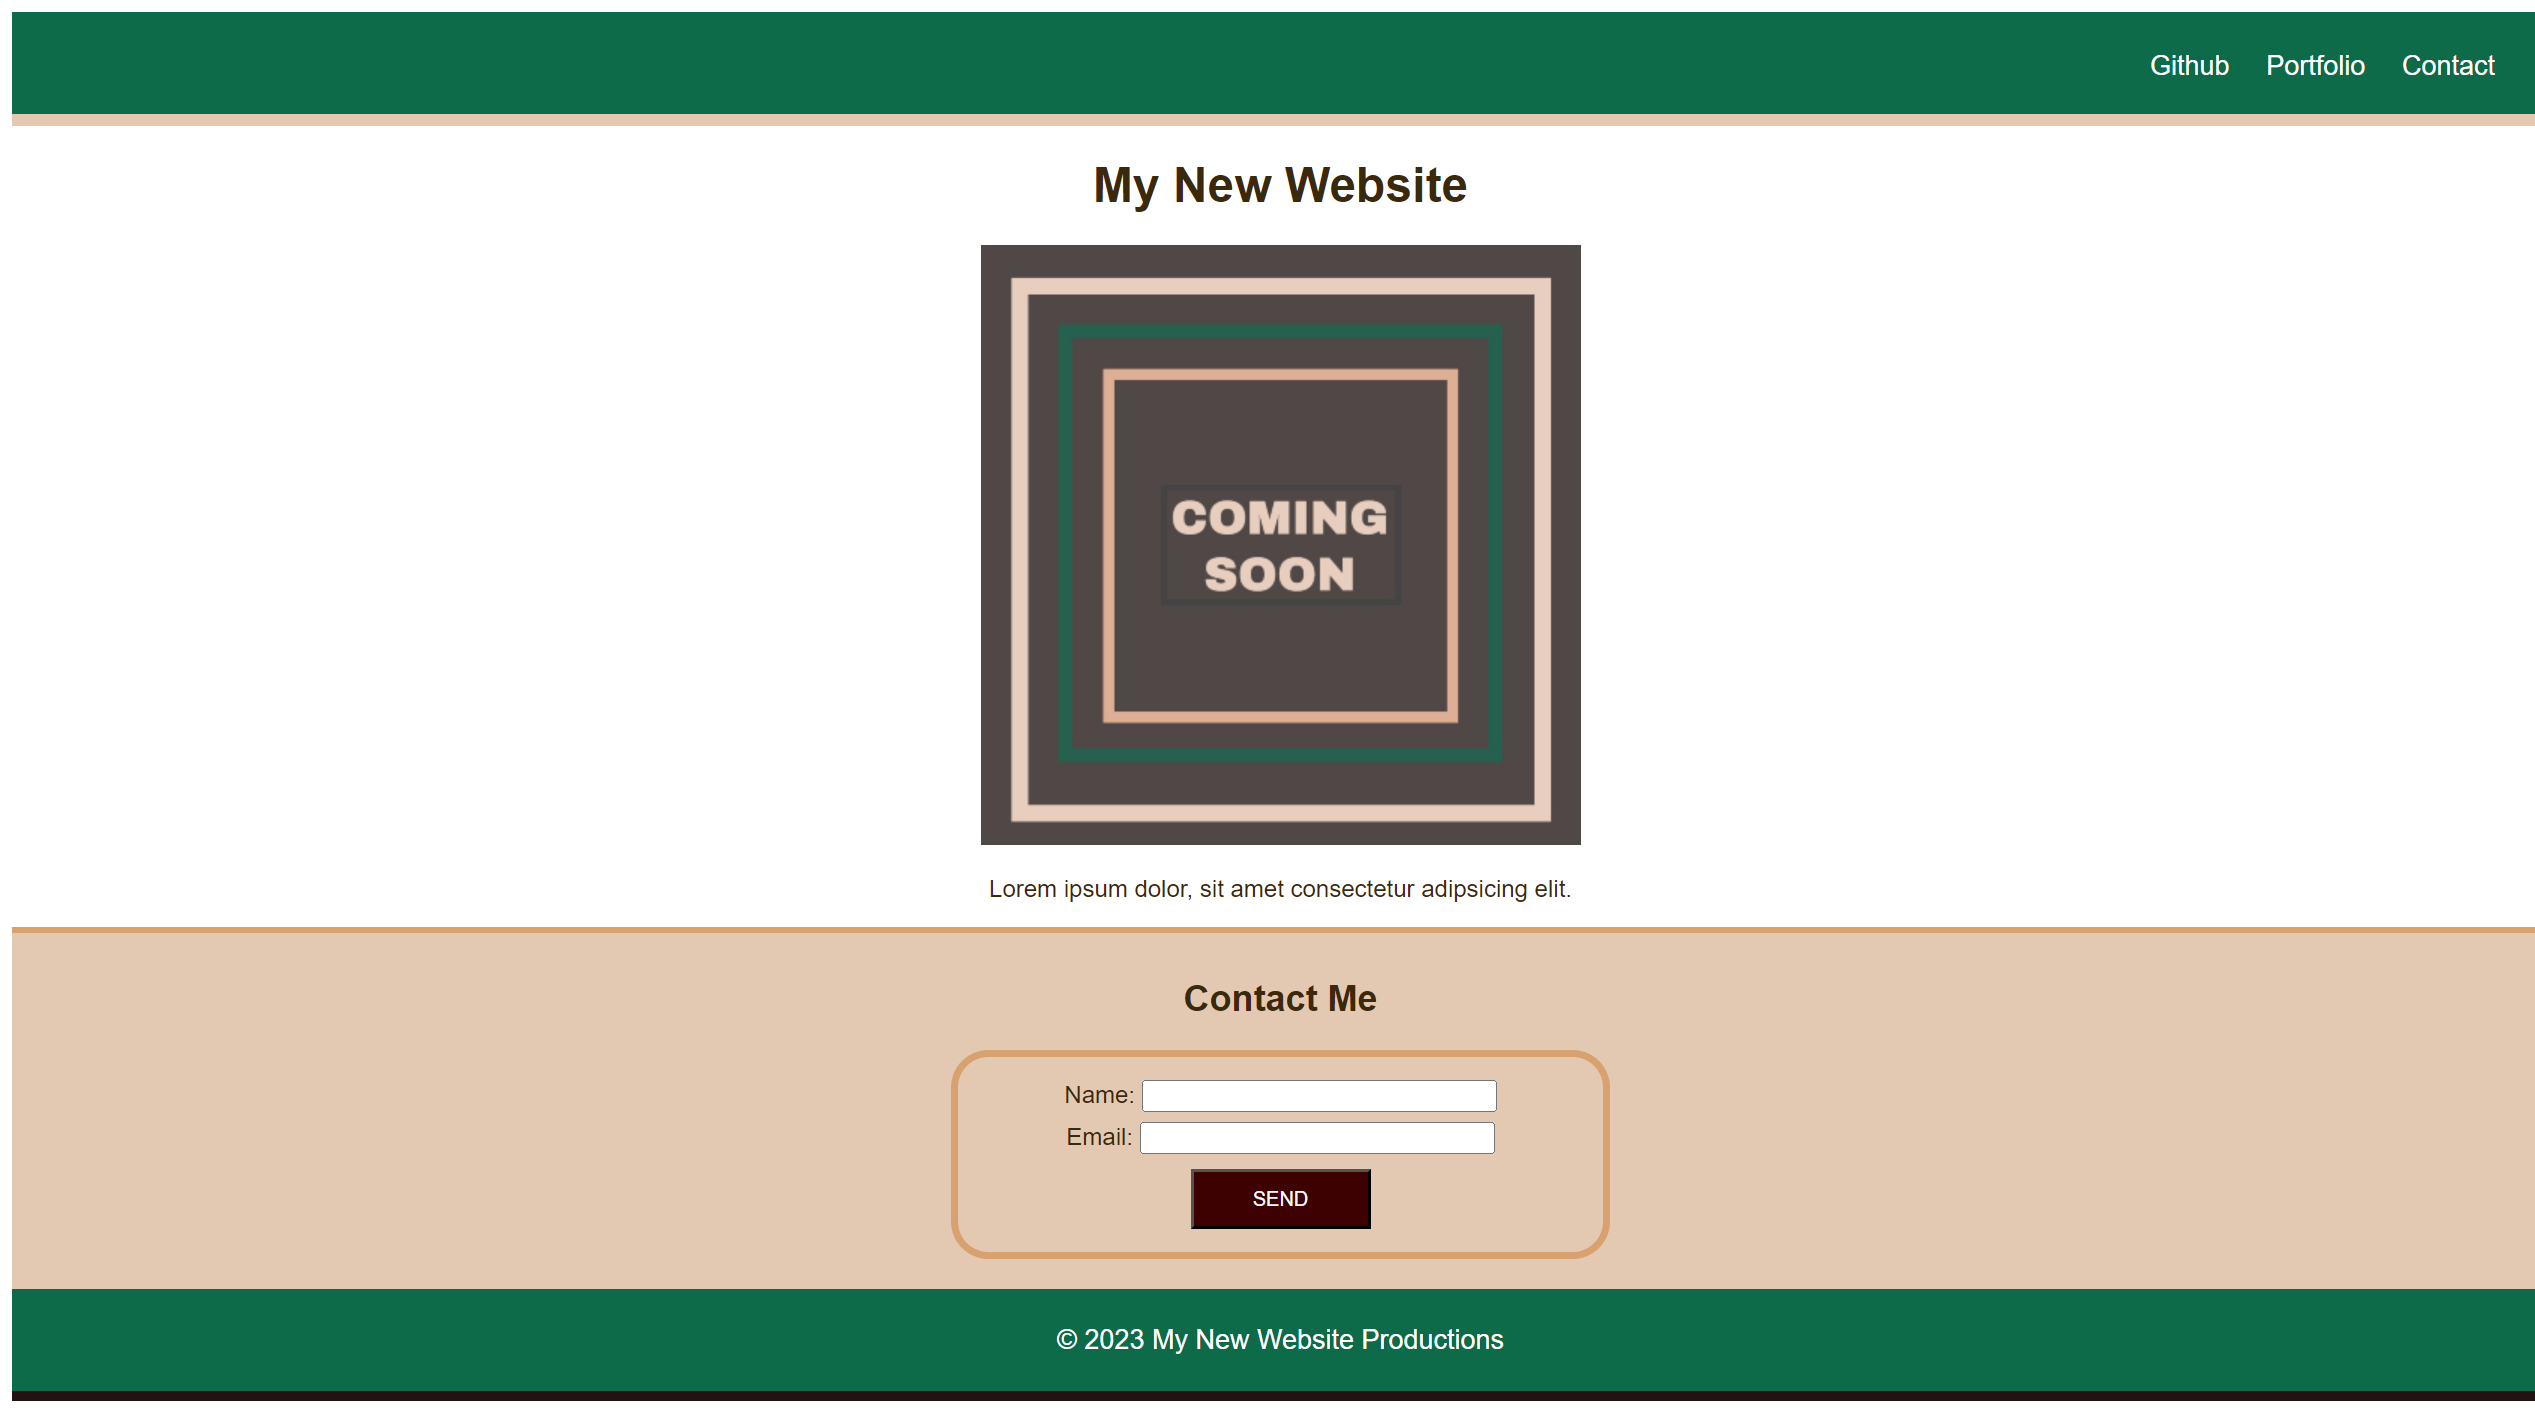
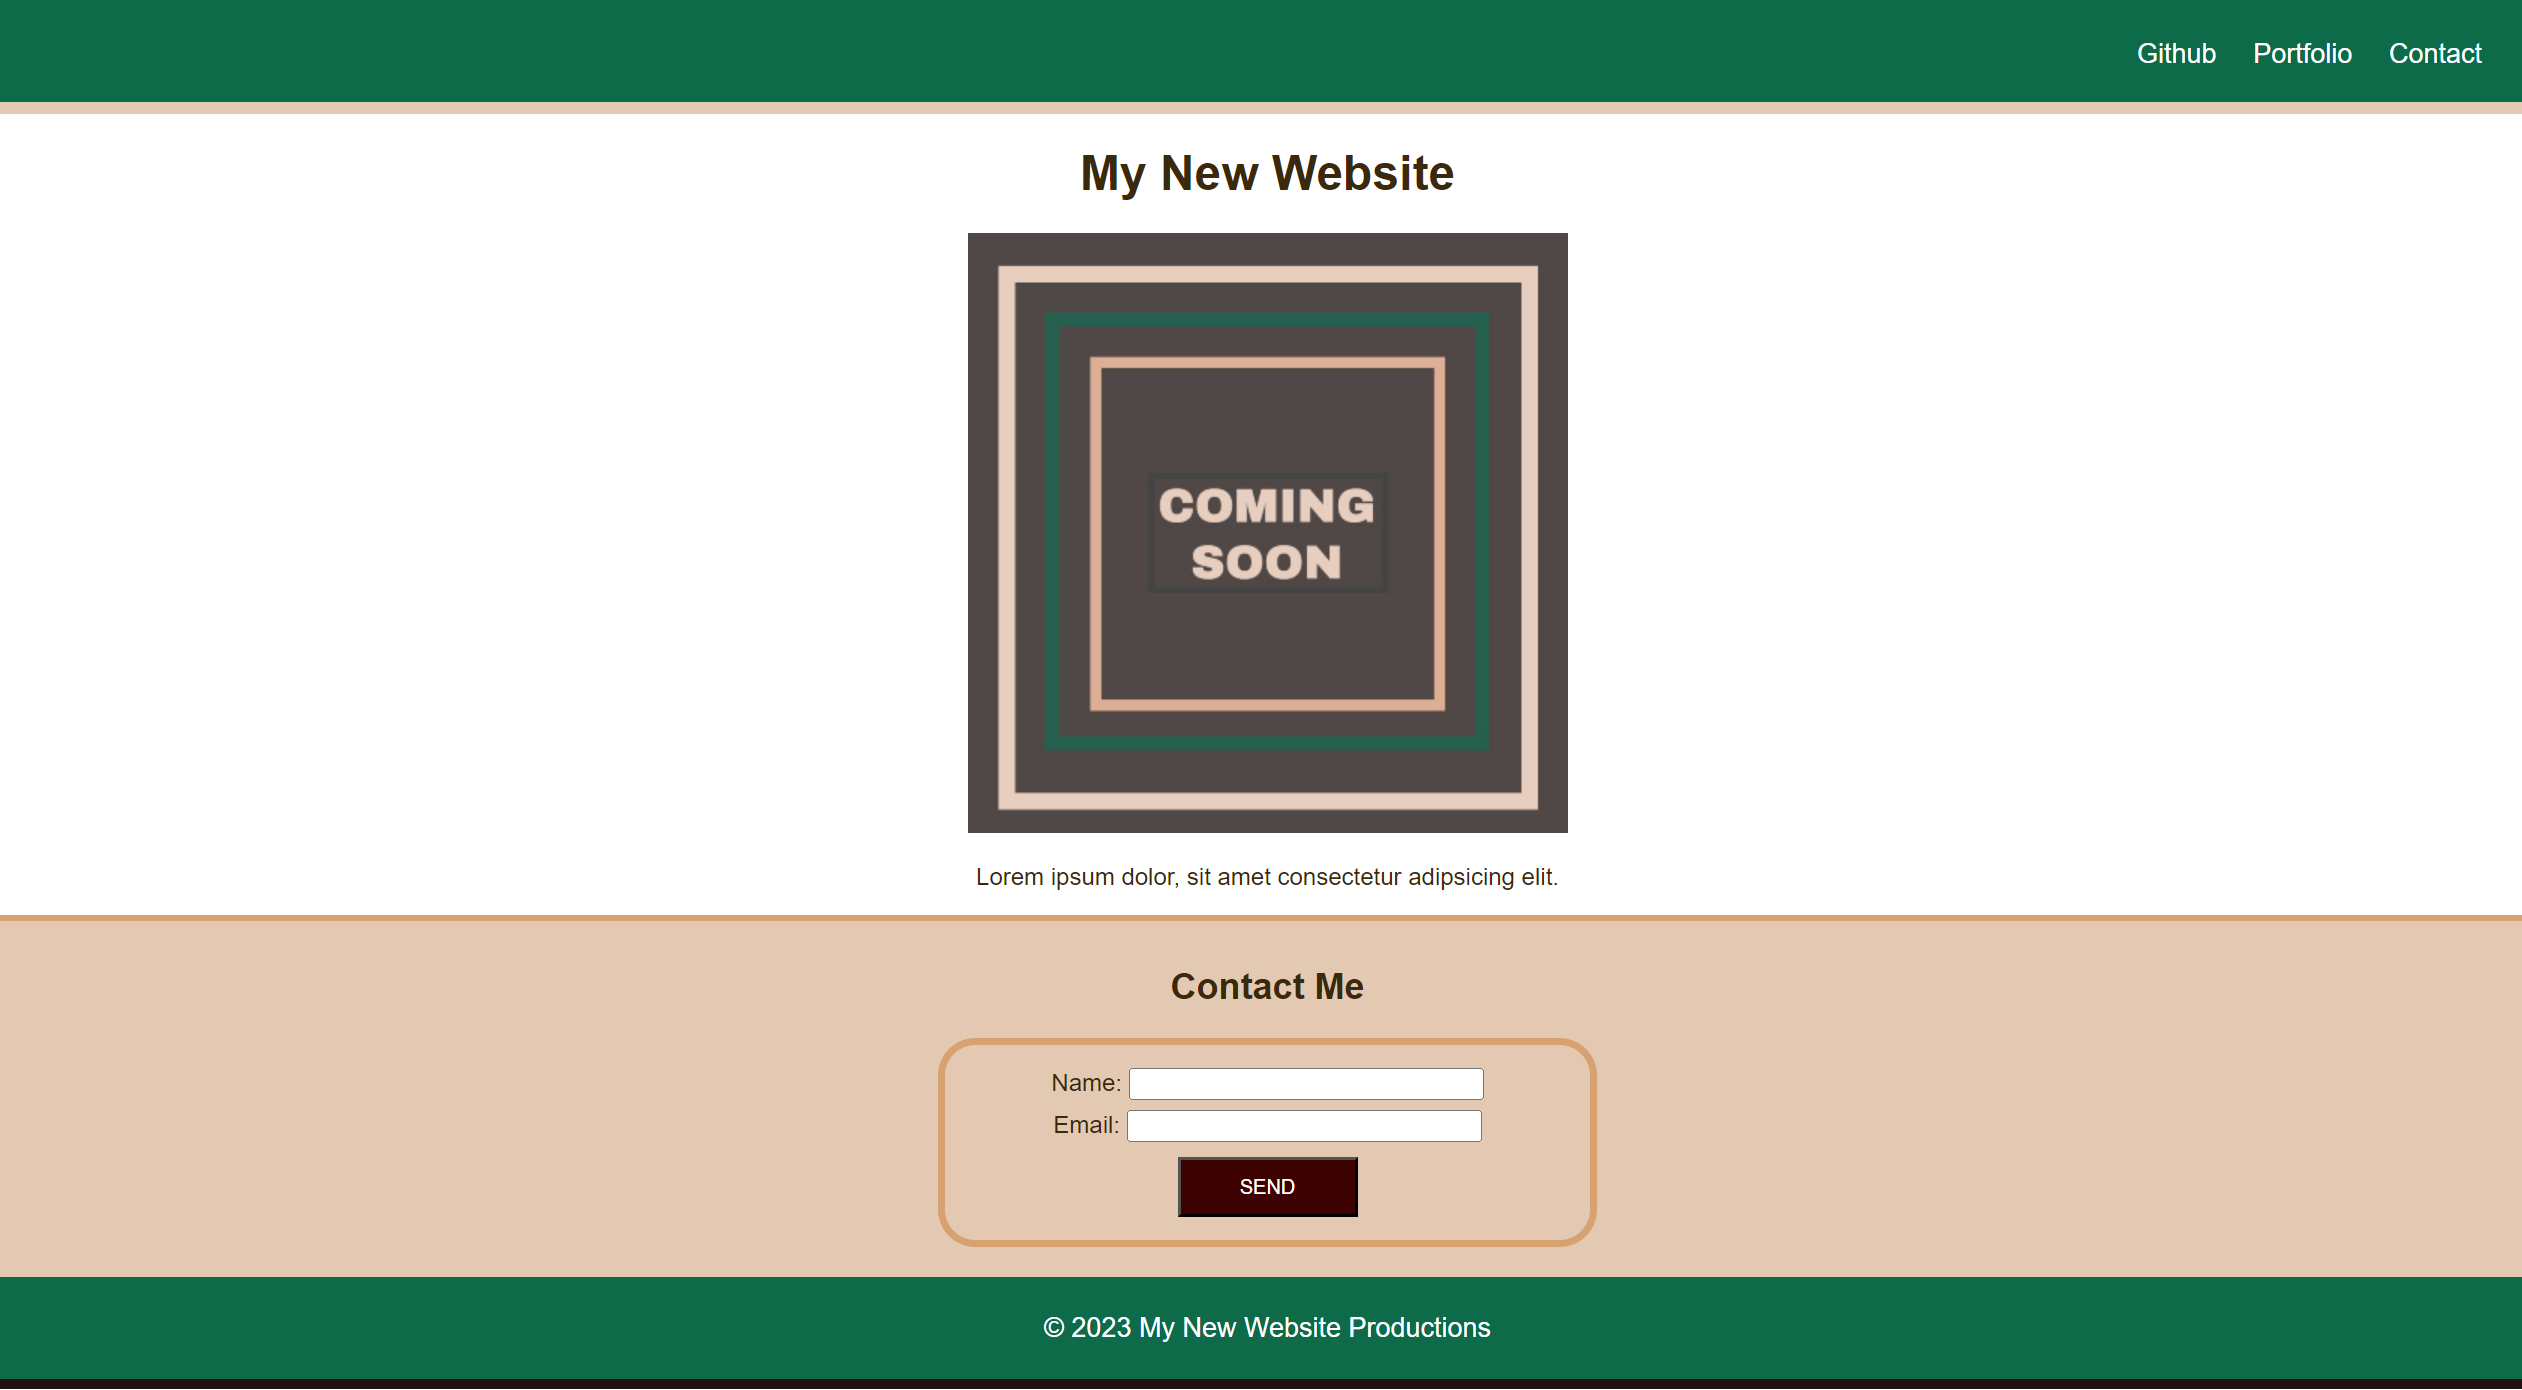
Update the portfolio and contact section for both html and css files

Changed region(s): [[0.0, 0.6187, 1.0, 1.0], [0.0, 0.0, 1.0, 0.5878]]

diff --git a/assets/style.css b/assets/style.css
@@ -14,39 +14,44 @@ header,
 footer {
     display: flex;
     background-color: rgb(158, 210, 248);
-    height: 60px;
+    height: 70px;
     border-bottom: 4px solid #06c078;
     font-weight: bold;
+}
+
+header img {
+    height: 48px;
+    width: auto;
+    margin: 10px 0 0 20px;
 }
 
 h1 {
     display: flex;
     align-items: center;
-    margin-left: 23px;
-    font-size: 32px;
+    margin-left: 10px;
+    font-size: 34px;
     color: #fff;
-    text-shadow: 3px 3px #f07764;
+    text-shadow: 3px 3px #06c078;
 }
 
 nav {
     display: flex;
     margin-left: auto;
     align-items: center;
-    gap: 48px;
-    font-size: 18px;
-    margin-right: 50px;
+    margin-right: 35px;
 }
 
 nav a:hover {
-    text-decoration: overline solid #ee6651 3px;
-    color: #ee6651;
-    text-shadow: 2px 2px #f0b4a9;
+    text-decoration: overline solid #06c078 3px;
+    color: #06c078;
+    text-shadow: 2px 2px #baebba;
 }
 
 ul {
     display: flex; /* Make the list items horizontal */
     gap: 30px;
-    font-size: 20px;
+    font-size: 21px;
+    text-shadow: 2px 2px #06c078;
 }
 
 li {
@@ -64,12 +69,12 @@ a {
     height: 750px;
     align-items: center;
     justify-content: space-between;
-    border-bottom: solid 3px salmon;
+    border-bottom: solid 3px #06c078;
 }
 
-.about h2 {
-    margin-left: 70px;
-    padding: 20px; /* Add padding for spacing */
+h2 {
+    margin-left: 65px;
+    padding: 15px; /* Add padding for spacing */
     border: outset 6px black;
     border-radius: 15px;
     background-color:#fbc6bd;
@@ -79,7 +84,7 @@ a {
 }
 
 h2 {
-    font-size: 40px;
+    font-size: 35px;
     
 }
 .about img {
@@ -149,68 +154,86 @@ h2 {
 
 .work {
     display: flex;
-    flex-direction: column; /* Stack items vertically */
     background-color: rgb(228, 242, 254);
-    height: auto; /* Adjust the height as needed */
+    height: 950px;
     align-items: center;
-    justify-content: center;
-    border-bottom: solid 3px salmon;
-    padding: 20px; /* Add padding for spacing */
+    border-bottom: solid 3px #06c078;
 }
 
-.container3 {
-    display: flex;
-    justify-content: center;
-    gap: 20px;
+.container {
+    display: block;
+    margin-left: 300px;
     flex-wrap: wrap;
-    padding-bottom: 60px;
-    position: relative;
-    text-align: center;
 }
 
-.work .container3 img {
-    text-align: center;
+.container img {
     position: relative;
-    width: 240px;
-}
-
-#card1 img {
+    text-align: center;
     width: 600px;
     height: auto;
-    margin: 10px;
-    border: solid 10px black;
+    border: solid 4px black;
 }
 
-#card1 img:hover{
+.container #card1 img:hover {
+    flex-wrap: wrap;
     width: 610px;
     height: auto;
-    box-shadow:5px 5px grey;
+    box-shadow: 5px 5px grey;
+    flex-shrink: 0;
 }
 
-.container3 img:hover {
-    width:250px;
+.container .work-img {
+    padding: 15px; /* Add padding for spacing */
+    border: outset 6px black;
+    border-radius: 15px;
+    background-color:#fbc6bd;
+    box-shadow: 4px 4px grey;
+    color: black;
+    text-align: center;
+}
+
+/*.container .work-img .LP:hover {
+    position: absolute;
+    top: 50%;
+    left: 50%;
+    transform: translate(-50%, -50%);
+}*/
+
+.container2 {
+    display: flex;
+    justify-content: space-between;
+    margin-top: 30px;
+    flex-wrap: wrap;
+}
+
+.container2 img {
+    width: 270px;
     height: auto;
-    box-shadow:5px 5px grey;
+}
+
+.container2 img:hover {
+    flex-wrap: wrap;
+    width: 280px;
+    height: auto;
+    box-shadow: 5px 5px grey;
 }
 
 h3 {
-    font-size: 10px;
+    font-size: 20px;
 }
 
 .contact {
     display: flex;
-    flex-direction: column; 
     background-color: rgb(228, 242, 254);
-    height: 150px;
+    height: 250px;
     align-items: center;
-    justify-content: center;
+    justify-content: space-between;
     border-bottom: solid 3px salmon;
 }
 
 .contact-text {
     margin-bottom: 25px;
 }
-
 
 .logo img {
     width: 40px;
@@ -220,7 +243,7 @@ h3 {
 }
 
 .logo img:hover {
-    box-shadow: 2px 2px #f07764;
+    box-shadow: 2px 2px #06c078;
     border-radius: 50%;
 }
 

diff --git a/index.html b/index.html
@@ -8,11 +8,12 @@
 </head>
 <body>
     <header>
+        <img src="./assets/img/cat logo.png" alt="">
         <h1>JLee</h1>
         <nav>
             <ul>
                 <li><a href="#About">< ABOUT ></a></li>
-                <li><a href="#Work">< WORK ></a></li>
+                <li><a href="#Portfolio">< PORTFOLIO ></a></li>
                 <li><a href="#Contact">< CONTACT ></a></li>
             </ul>
         </nav>
@@ -38,28 +39,31 @@
             </div>    
         </section>
 
-        <section class="work" id="Work">
-            <h2>< Work ></h2>
+        <section class="work" id="Portfolio">
+            <h2>< PORTFOLIO ></h2>
+            <div class="container">   
                 <div class="work-img" id="card1">
                     <a href="https://github.com/jodielee062788/landing-page"><img src="./assets/img/Landing page.png" alt=""></a>
+                    <h3>Landing Page</h3>
+                <div class="divider">//</div>
                 </div>
-            <div class="container3">
-                <div class="work-img">
-                    <a href="https://github.com/jodielee062788/Red-Velvet"><img src="./assets/img/jodielee062788.github.io_Red-Velvet_.png" alt=""></a>
-                </div>
-                
-                <div class="work-img">
-                    <a href="https://github.com/jodielee062788/odinrecipe"><img src="./assets/img/Odinrecipe.png" alt=""></a>
-                </div>
+            <div class="container2">  
+                    <div class="work-img">
+                        <a href="https://github.com/jodielee062788/Red-Velvet"><img src="./assets/img/jodielee062788.github.io_Red-Velvet_2.png" alt=""></a>
+                        <h3>Red Velvet Website</h3>
+                    </div>
+                    
+                    <div class="work-img">
+                        <a href="https://github.com/jodielee062788/odinrecipe"><img src="./assets/img/Odinrecipe.png" alt=""></a>
+                        <h3>Odin Recipes</h3>
+                    </div>
 
-                <div class="work-img">
-                    <a href="#coming-soon"><img src="" alt="">CS</a>
-                </div>
+            </div>
             </div>
         </section>
 
         <section class="contact" id="Contact">
-                <h2 class="contact-text">< Contact ></h2>
+                <h2 class="contact-text">< CONTACT ></h2>
                     <div class ="logo">
                         <a href="mailto:jodielee062788@gmail.com" title="E-mail"><img src="./assets/img/envelope.png" alt="email logo"></a>
                         <a href="https://github.com/jodielee062788" title="Github"><img src="./assets/img/github.png" alt="github logo"></a>
